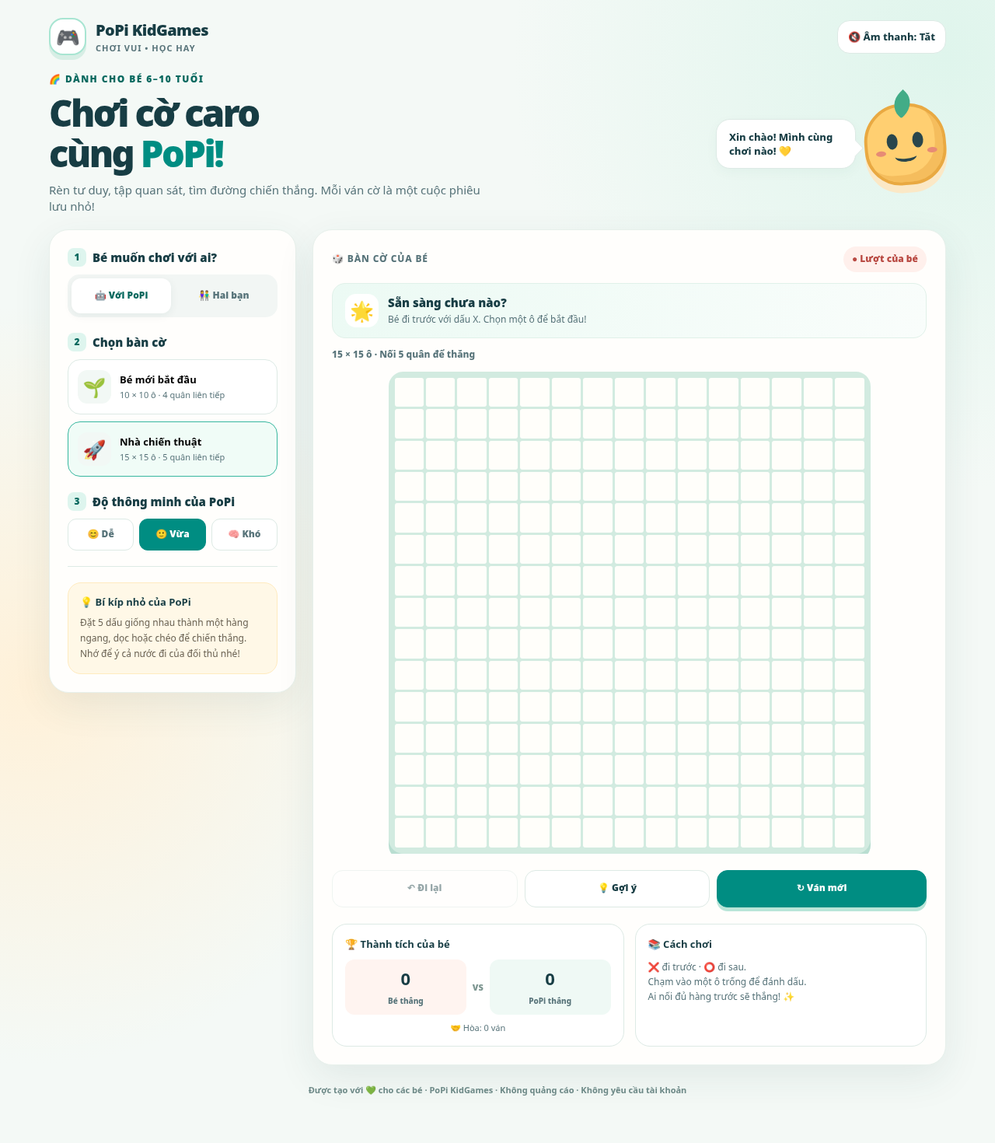
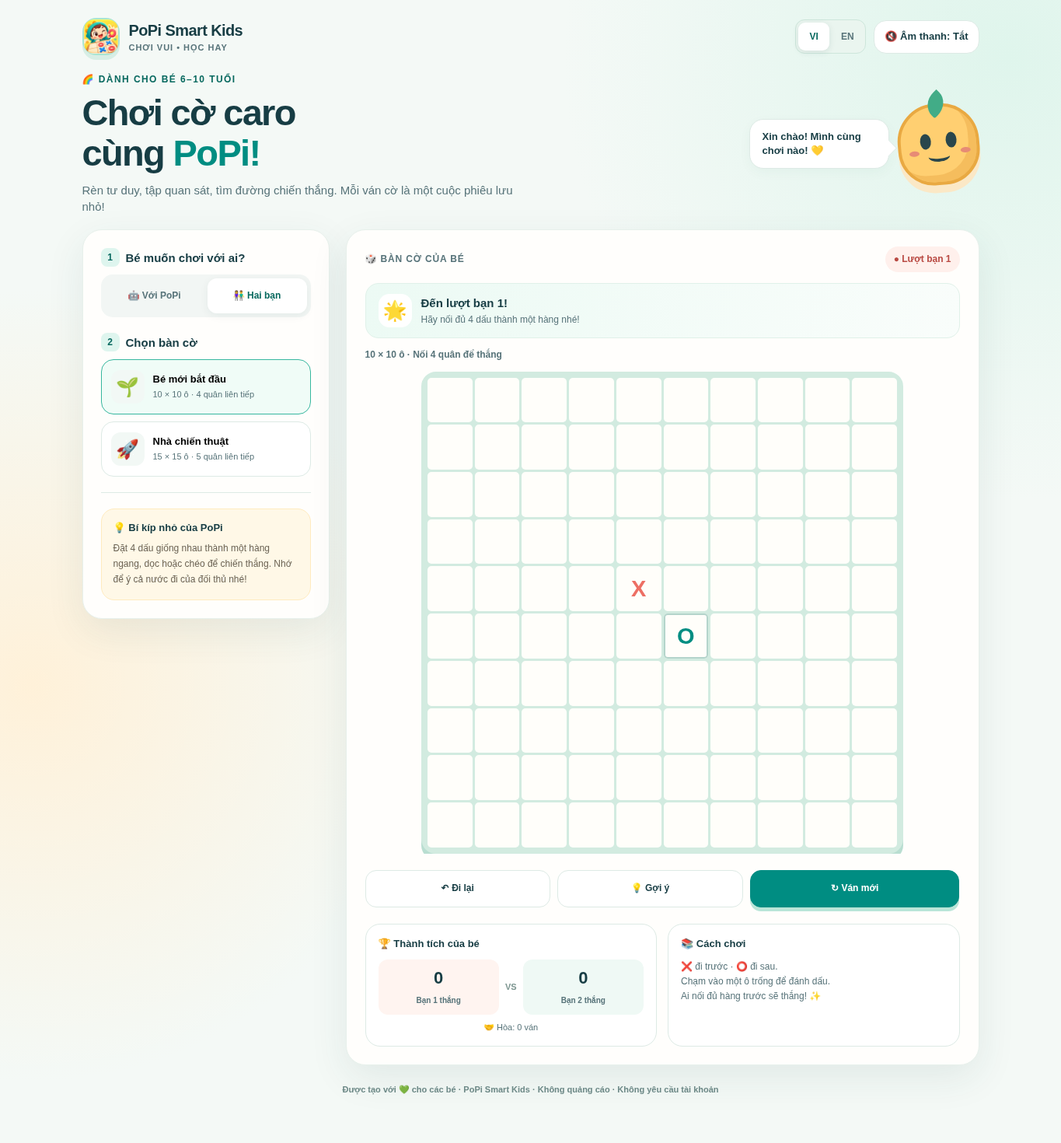
Add files via upload

diff --git a/index.html b/index.html
@@ -2,9 +2,10 @@
 <html lang="vi">
 <head>
   <meta charset="utf-8">
+  <meta name="application-name" content="PoPi Caro">
   <meta name="viewport" content="width=device-width, initial-scale=1, viewport-fit=cover">
   <meta name="theme-color" content="#f4f9f6">
-  <meta name="description" content="Chơi cờ caro cùng PoPi – trò chơi tư duy vui nhộn dành cho trẻ 6–10 tuổi, chơi với máy hoặc cùng bạn bè.">
+  <meta name="description" content="PoPi Caro – A fun, free, bilingual Caro strategy game for kids 6–10. Chơi cờ caro cùng PoPi Smart Kids.">
   <link rel="icon" href="favicon.ico" sizes="any">
   <link rel="icon" type="image/png" sizes="32x32" href="assets/icons/favicon-32x32.png">
   <link rel="icon" type="image/png" sizes="16x16" href="assets/icons/favicon-16x16.png">
@@ -18,8 +19,8 @@
   <style>
     :root { color-scheme: light; --ink:#173d44; --muted:#58747a; --paper:#fffefc; --bg:#f4f9f6; --jade:#008d82; --jade-dark:#08695f; --jade-soft:#def5ee; --coral:#ed6f64; --coral-soft:#fff0ec; --yellow:#ffd773; --line:#ddeae5; --shadow:0 16px 50px rgba(32,81,79,.09); --radius:25px; }
     *{box-sizing:border-box}
-    body{margin:0;background:radial-gradient(circle at 95% 5%,#dff5ec 0%,transparent 30%),radial-gradient(circle at 3% 60%,#fff1d9 0%,transparent 32%),var(--bg);font-family:ui-rounded,"Trebuchet MS",system-ui,-apple-system,"Segoe UI",sans-serif;color:var(--ink);line-height:1.4;min-height:100vh}
-    button{font:inherit;cursor:pointer;-webkit-tap-highlight-color:transparent}
+    body{margin:0;background:radial-gradient(circle at 95% 5%,#dff5ec 0%,transparent 30%),radial-gradient(circle at 3% 60%,#fff1d9 0%,transparent 32%),var(--bg);font-family:-apple-system,BlinkMacSystemFont,"Segoe UI",Arial,"Helvetica Neue",sans-serif;color:var(--ink);line-height:1.4;min-height:100vh}
+    button{font:inherit;cursor:pointer;-webkit-tap-highlight-color:transparent;-webkit-appearance:none;appearance:none} html{-webkit-text-size-adjust:100%;text-size-adjust:100%}
     button:focus-visible{outline:3px solid #235bc2;outline-offset:3px}
     button:disabled{opacity:.45;cursor:not-allowed}
     .container{max-width:1210px;margin:auto;padding:23px 28px 60px}
@@ -29,9 +30,15 @@
     .brand-mark img{width:100%;height:100%;object-fit:cover;border-radius:13px}
     .brand span small{font-size:11px;color:var(--muted);font-weight:700;display:block;letter-spacing:.09em;margin-top:1px}
     .icon-btn{border:1px solid var(--line);background:white;border-radius:16px;min-height:43px;padding:9px 13px;color:var(--ink);font-size:13px;font-weight:800}
+    .header-actions{display:flex;align-items:center;gap:10px;flex-wrap:wrap;justify-content:flex-end}
+    .language-switch{display:flex;gap:3px;padding:3px;background:#eaf5ef;border:1px solid #cde6db;border-radius:12px;flex-shrink:0}
+    .language-switch button{border:0;border-radius:9px;min-height:36px;min-width:40px;padding:7px 9px;background:transparent;color:var(--muted);font-size:12px;font-weight:900}
+    .language-switch button.active{background:#fff;color:var(--jade-dark);box-shadow:0 2px 8px #173d441a}
+    .brand{min-width:0}.brand>span{overflow-wrap:anywhere}.brand-mark{flex-shrink:0}
+    @media(max-width:570px){.topbar{align-items:flex-start;gap:8px}.header-actions{gap:5px}.header-actions .icon-btn{font-size:11px;min-height:35px}.language-switch button{min-width:34px;min-height:33px;padding:5px}}
     .hero{display:flex;align-items:center;justify-content:space-between;gap:20px;margin-bottom:19px}
     .eyebrow{color:var(--jade-dark);font-size:12px;font-weight:900;letter-spacing:.12em;text-transform:uppercase;margin:0 0 8px}
-    h1{font-size:clamp(29px,4.5vw,47px);line-height:1.12;letter-spacing:-.055em;margin:0 0 10px;font-weight:900}
+    h1{font-size:clamp(29px,4.5vw,47px);line-height:1.12;letter-spacing:-.035em;margin:0 0 10px;font-weight:900}
     h1 em{font-style:normal;color:var(--jade)}
     .hero p:last-child{color:var(--muted);margin:0;max-width:560px;font-size:15px}
     .mascot-unit{display:flex;gap:11px;align-items:center;flex-shrink:0}
@@ -79,12 +86,15 @@
     .zoom-tip{font-size:11px;color:var(--muted);margin:11px 0 0;text-align:center}
     .zoom-tip[hidden]{display:none}
     .board{width:min(100%,620px);margin-inline:auto;display:grid;grid-template-columns:repeat(var(--cells),minmax(0,1fr));background:#d2ebe0;border:5px solid #d2ebe0;border-radius:19px;gap:3px;padding:3px;aspect-ratio:1;box-shadow:0 8px 0 #b9ded1;touch-action:manipulation}
-    .cell{aspect-ratio:1;min-width:0;min-height:0;border:0;border-radius:7px;background:#fffefa;display:grid;place-items:center;padding:0;position:relative;transition:background .1s,transform .1s;font-family:ui-rounded,system-ui,sans-serif;font-size:clamp(12px,3.2vw,34px);font-weight:1000;line-height:1;color:var(--ink)}
+    .cell{aspect-ratio:1;min-width:0;min-height:0;border:0;border-radius:7px;background:#fffefa;display:grid;place-items:center;padding:0;position:relative;transition:background .1s,transform .1s;font-family:Arial,"Helvetica Neue",sans-serif;font-size:clamp(12px,3.2vw,34px);font-weight:900;line-height:1;color:var(--ink);-webkit-appearance:none;appearance:none;box-sizing:border-box;overflow:hidden}
+    /* Safari/iPadOS: absolutely center glyphs; native button content layout can be inconsistent. */
+    .cell .piece-mark{position:absolute;left:50%;top:50%;display:block;width:100%;line-height:1;text-align:center;transform:translate(-50%,-50%);pointer-events:none;font:inherit;font-weight:900;letter-spacing:0;white-space:nowrap;-webkit-user-select:none;user-select:none}
+    .cell.x .piece-mark{color:var(--coral)}.cell.o .piece-mark{color:var(--jade)}
     .board[data-size="10"] .cell{font-size:clamp(12px,2.4vw,29px);border-radius:5px}
     .board[data-size="15"] .cell{font-size:clamp(12px,2vw,25px);border-radius:3px}
     .board.zoomed{width:540px;min-width:540px;max-width:none;margin-inline:0}
     .board[data-size="15"] .cell.hint:empty:after{font-size:clamp(12px,2vw,18px)}
-    .cell:enabled:hover{background:#fff4cf;transform:scale(.96)}
+    @media(hover:hover){.cell:enabled:hover{background:#fff4cf;transform:scale(.98)}}
     .cell.x{color:var(--coral)}.cell.o{color:var(--jade)}
     .cell.winning{background:#fff0ad;box-shadow:inset 0 0 0 2px #f4c352}
     .cell.last:not(.winning){box-shadow:inset 0 0 0 2px #b4d4cb}
@@ -103,12 +113,20 @@
     .score-box strong{display:block;font-size:22px}.score-box small{font-size:10px;color:var(--muted);font-weight:800}
     .versus{color:#7d9691;font-size:11px;font-weight:900}
     .draw-text{text-align:center;color:var(--muted);font-size:11px;margin:9px 0 0}
-    .tiny-guide{font-size:12px;color:var(--muted);margin:0;line-height:1.6}
+    .tiny-guide{font-size:12px;color:var(--muted);margin:0;line-height:1.6;white-space:pre-line}
     .footer{margin-top:24px;text-align:center;font-size:11px;color:#6d8987;font-weight:700}
     .confetti{position:fixed;pointer-events:none;z-index:20;top:-30px;width:11px;height:18px;animation:confetti-fall var(--duration) linear forwards;left:var(--left);background:var(--color);transform:rotate(var(--rotate))}
     @keyframes confetti-fall{0%{translate:0 -30px;opacity:1}100%{translate:var(--drift) 110vh;rotate:700deg;opacity:0}}
     @media(max-width:960px){.layout{grid-template-columns:minmax(235px,290px) minmax(0,1fr)}.container{padding:20px 18px 44px}.settings-panel{padding:18px}.board-panel{padding:18px}.speech{display:none}.mascot{width:85px;height:85px}.mascot:before,.mascot:after{top:28px}.mascot .mouth{top:49px;left:25px}.mascot .blush{top:48px;box-shadow:50px 0 #e78b75}.mascot:after{right:17px}.mascot:before{left:17px}}
     @media(max-width:740px){.layout{grid-template-columns:minmax(0,1fr)}.hero{align-items:center}.hero p:last-child{font-size:13px}.mascot{width:71px;height:71px;border-width:3px;box-shadow:inset -6px -6px 0 #f5bd5d,0 6px 0 #fbe8c6}.mascot:before,.mascot:after{height:15px;width:10px;top:23px}.mascot:before{left:17px}.mascot:after{right:17px}.mascot .mouth{top:39px;left:24px;width:17px}.mascot .blush{top:39px;left:8px;width:9px;box-shadow:44px 0 #e78b75}.mascot .hair{left:19px;width:20px;height:18px;top:-13px}.settings-panel{display:grid;grid-template-columns:repeat(2,minmax(0,1fr));gap:15px}.settings-panel .settings-block:first-child{grid-column:1/-1}.settings-panel .aside-divider{display:none}.settings-panel .help-box{grid-column:1/-1}.choice-stack{gap:6px}.choice{min-height:60px;padding:8px}.choice-emoji{height:37px;width:37px;font-size:19px}.board{width:min(100%,620px)}}
+    /* On narrow screens, settings use the full available width for readable text. */
+    @media(max-width:570px){
+      .settings-panel{display:flex;flex-direction:column}
+      .choice-stack{grid-template-columns:repeat(2,minmax(0,1fr))}
+      .choice{width:100%;min-width:0}
+      .brand span small{font-size:10px;letter-spacing:.025em}
+      .board-head{flex-wrap:wrap}
+    }
     @media(min-width:741px){.zoom-button{display:none}}
     @media(max-width:450px){.container{padding:14px 10px 35px}.topbar{margin-bottom:19px}.brand{font-size:16px;gap:8px}.brand-mark{width:42px;height:42px}.icon-btn{padding:9px 7px;font-size:11px}.hero{margin-bottom:19px}.eyebrow{font-size:10px}h1{font-size:28px;max-width:270px}.hero p:last-child{font-size:12px}.mascot{width:64px;height:64px}.mascot:before,.mascot:after{top:20px}.mascot .mouth{top:36px;left:20px}.mascot .blush{top:36px;box-shadow:38px 0 #e78b75}.mascot:after{right:15px}.mascot:before{left:15px}.settings-panel{padding:13px;gap:12px}.section-name{font-size:13px}.section-name .number{width:20px;height:20px}.choice{gap:5px}.choice-emoji{display:none}.choice strong{font-size:11px}.choice small{font-size:10px}.difficulty{gap:3px}.difficulty button{font-size:11px;padding:8px 2px}.board-panel{padding:13px}.board{border-width:3px;gap:2px;padding:2px;border-radius:12px}.cell{border-radius:3px}.board-head{margin-bottom:10px}.status-card{padding:10px 11px;margin-bottom:14px}.status-icon{width:38px;height:38px}.action-row{gap:6px;margin-top:18px}.action{min-height:47px;padding:10px 3px;font-size:11px}.bottom-layout{gap:7px;margin-top:17px}.small-panel{padding:12px}.small-panel h3{font-size:12px}.tiny-guide{font-size:11px}.score-box strong{font-size:19px}}
     @media(prefers-reduced-motion:reduce){*,*:before,*:after{animation-duration:.01ms!important;transition-duration:.01ms!important}}
@@ -117,35 +135,41 @@
 <body>
   <div class="container">
     <header class="topbar">
-      <div class="brand"><div class="brand-mark" aria-hidden="true"><img src="assets/icons/icon-192.png" alt="" width="40" height="40"></div><span>PoPi KidGames<small>CHƠI VUI • HỌC HAY</small></span></div>
-      <button class="icon-btn" type="button" id="sound-button" aria-pressed="false">🔇 Âm thanh: Tắt</button>
[1 lines of base64/hex data omitted]
+      <div class="header-actions">
+        <div class="language-switch" role="group" data-i18n-aria="languagePicker" aria-label="Chọn ngôn ngữ">
+          <button type="button" data-lang="vi" class="active" aria-pressed="true" aria-label="Tiếng Việt">VI</button>
+          <button type="button" data-lang="en" aria-pressed="false" aria-label="English">EN</button>
+        </div>
+        <button class="icon-btn" type="button" id="sound-button" aria-pressed="false">🔇 Âm thanh: Tắt</button>
+      </div>
     </header>
     <section class="hero" aria-labelledby="page-title">
-      <div><p class="eyebrow">🌈 Dành cho bé 6–10 tuổi</p><h1 id="page-title">Chơi cờ caro<br>cùng <em>PoPi!</em></h1><p>Rèn tư duy, tập quan sát, tìm đường chiến thắng. Mỗi ván cờ là một cuộc phiêu lưu nhỏ!</p></div>
-      <div class="mascot-unit"><div class="speech" id="mascot-speech">Xin chào! Mình cùng chơi nào! 💛</div><div class="mascot" role="img" aria-label="Linh vật PoPi đang mỉm cười"><span class="mouth"></span><span class="blush"></span><span class="hair"></span></div></div>
+      <div><p class="eyebrow" data-i18n="eyebrow">🌈 Dành cho bé 6–10 tuổi</p><h1 id="page-title">Chơi cờ caro<br>cùng <em>PoPi!</em></h1><p data-i18n="intro">Rèn tư duy, tập quan sát, tìm đường chiến thắng. Mỗi ván cờ là một cuộc phiêu lưu nhỏ!</p></div>
+      <div class="mascot-unit"><div class="speech" id="mascot-speech">Xin chào! Mình cùng chơi nào! 💛</div><div class="mascot" role="img" data-i18n-aria="mascotAria" aria-label="Linh vật PoPi đang mỉm cười"><span class="mouth"></span><span class="blush"></span><span class="hair"></span></div></div>
     </section>
     <main class="layout">
-      <aside class="panel settings-panel" aria-label="Cài đặt trò chơi">
-        <section class="settings-block"><h2 class="section-name"><span class="number">1</span> Bé muốn chơi với ai?</h2><div class="toggle-row" role="group" aria-label="Chế độ chơi"><button type="button" data-mode="ai" class="active" aria-pressed="true">🤖 Với PoPi</button><button type="button" data-mode="friends" aria-pressed="false">👫 Hai bạn</button></div></section>
-        <section class="settings-block"><h2 class="section-name"><span class="number">2</span> Chọn bàn cờ</h2><div class="choice-stack"><button type="button" data-preset="starter" class="choice active" aria-pressed="true"><span class="choice-emoji">🌱</span><span><strong>Bé mới bắt đầu</strong><small>10 × 10 ô · 4 quân liên tiếp</small></span></button><button type="button" data-preset="explorer" class="choice" aria-pressed="false"><span class="choice-emoji">🚀</span><span><strong>Nhà chiến thuật</strong><small>15 × 15 ô · 5 quân liên tiếp</small></span></button></div></section>
-        <section class="settings-block" id="difficulty-section"><h2 class="section-name"><span class="number">3</span> Độ thông minh của PoPi</h2><div class="difficulty" role="group" aria-label="Độ khó"><button type="button" data-difficulty="easy" aria-pressed="false">😊 Dễ</button><button type="button" data-difficulty="normal" class="active" aria-pressed="true">🙂 Vừa</button><button type="button" data-difficulty="hard" aria-pressed="false">🧠 Khó</button></div></section>
+      <aside class="panel settings-panel" data-i18n-aria="settingsLabel" aria-label="Cài đặt trò chơi">
+        <section class="settings-block"><h2 class="section-name"><span class="number">1</span> <span data-i18n="playWith">Bé muốn chơi với ai?</span></h2><div class="toggle-row" role="group" data-i18n-aria="modeLabel" aria-label="Chế độ chơi"><button type="button" data-mode="ai" class="active" aria-pressed="true" data-i18n="withPopi">🤖 Với PoPi</button><button type="button" data-mode="friends" aria-pressed="false" data-i18n="twoPlayers">👫 Hai bạn</button></div></section>
+        <section class="settings-block"><h2 class="section-name"><span class="number">2</span> <span data-i18n="chooseBoard">Chọn bàn cờ</span></h2><div class="choice-stack"><button type="button" data-preset="starter" class="choice active" aria-pressed="true"><span class="choice-emoji">🌱</span><span><strong data-i18n="starter">Bé mới bắt đầu</strong><small data-i18n="starterSub">10 × 10 ô · 4 quân liên tiếp</small></span></button><button type="button" data-preset="explorer" class="choice" aria-pressed="false"><span class="choice-emoji">🚀</span><span><strong data-i18n="advanced">Nhà chiến thuật</strong><small data-i18n="advancedSub">15 × 15 ô · 5 quân liên tiếp</small></span></button></div></section>
+        <section class="settings-block" id="difficulty-section"><h2 class="section-name"><span class="number">3</span> <span data-i18n="difficultyTitle">Độ thông minh của PoPi</span></h2><div class="difficulty" role="group" data-i18n-aria="difficultyLabel" aria-label="Độ khó"><button type="button" data-difficulty="easy" aria-pressed="false" data-i18n="easy">😊 Dễ</button><button type="button" data-difficulty="normal" class="active" aria-pressed="true" data-i18n="normal">🙂 Vừa</button><button type="button" data-difficulty="hard" aria-pressed="false" data-i18n="hard">🧠 Khó</button></div></section>
         <div class="aside-divider"></div>
-        <section class="help-box"><strong>💡 Bí kíp nhỏ của PoPi</strong><p id="help-text">Đặt 4 dấu giống nhau thành một hàng ngang, dọc hoặc chéo để chiến thắng. Nhớ để ý cả nước đi của đối thủ nhé!</p></section>
+        <section class="help-box"><strong data-i18n="tipsTitle">💡 Bí kíp nhỏ của PoPi</strong><p id="help-text">Đặt 4 dấu giống nhau thành một hàng ngang, dọc hoặc chéo để chiến thắng. Nhớ để ý cả nước đi của đối thủ nhé!</p></section>
       </aside>
       <section class="panel board-panel" aria-labelledby="board-label">
-        <div class="board-head"><span class="mini-title" id="board-label">🎲 BÀN CỜ CỦA BÉ</span><span class="turn-pill is-coral" id="turn-pill">● Lượt của bé</span></div>
+        <div class="board-head"><span class="mini-title" id="board-label" data-i18n="boardTitle">🎲 BÀN CỜ CỦA BÉ</span><span class="turn-pill is-coral" id="turn-pill">● Lượt của bé</span></div>
         <div class="status-card" role="status" aria-live="polite" aria-atomic="true"><div class="status-icon" id="status-icon">🌟</div><div><p id="status-title">Sẵn sàng chưa nào?</p><p id="status-description">Bé đi trước với dấu X. Chọn một ô để bắt đầu!</p></div></div>
         <div class="board-tools"><span class="board-rule" id="board-rule">10 × 10 ô · Nối 4 quân để thắng</span><button class="zoom-button" id="zoom-button" type="button" hidden aria-pressed="false">🔎 Phóng to</button></div>
         <div class="board-shell" id="board-shell"><div class="board" id="board" role="group" aria-label="Bàn cờ caro 10 nhân 10" style="--cells:10" data-size="10"></div></div>
-        <p class="zoom-tip" id="zoom-tip" hidden>👆 Kéo bàn cờ để xem các ô khi phóng to.</p>
-        <div class="action-row"><button type="button" class="action" id="undo-button">↶ Đi lại</button><button type="button" class="action" id="hint-button">💡 Gợi ý</button><button type="button" class="action primary" id="new-button">↻ Ván mới</button></div>
+        <p class="zoom-tip" id="zoom-tip" hidden data-i18n="zoomTip">👆 Kéo bàn cờ để xem các ô khi phóng to.</p>
+        <div class="action-row"><button type="button" class="action" id="undo-button" data-i18n="undoBtn">↶ Đi lại</button><button type="button" class="action" id="hint-button" data-i18n="hintBtn">💡 Gợi ý</button><button type="button" class="action primary" id="new-button" data-i18n="newBtn">↻ Ván mới</button></div>
         <div class="bottom-layout">
-          <section class="small-panel"><h3>🏆 Thành tích của bé</h3><div class="score-pairs"><div class="score-box"><strong id="score-x">0</strong><small id="score-x-label">Bé thắng</small></div><span class="versus">VS</span><div class="score-box popi"><strong id="score-o">0</strong><small id="score-o-label">PoPi thắng</small></div></div><p class="draw-text" id="draw-text">🤝 Hòa: 0 ván</p></section>
-          <section class="small-panel"><h3>📚 Cách chơi</h3><p class="tiny-guide">❌ đi trước · ⭕ đi sau.<br>Chạm vào một ô trống để đánh dấu.<br>Ai nối đủ hàng trước sẽ thắng! ✨</p></section>
+          <section class="small-panel"><h3 data-i18n="scoreTitle">🏆 Thành tích của bé</h3><div class="score-pairs"><div class="score-box"><strong id="score-x">0</strong><small id="score-x-label">Bé thắng</small></div><span class="versus">VS</span><div class="score-box popi"><strong id="score-o">0</strong><small id="score-o-label">PoPi thắng</small></div></div><p class="draw-text" id="draw-text">🤝 Hòa: 0 ván</p></section>
+          <section class="small-panel"><h3 data-i18n="guideTitle">📚 Cách chơi</h3><p class="tiny-guide" id="tiny-guide">❌ đi trước · ⭕ đi sau.<br>Chạm vào một ô trống để đánh dấu.<br>Ai nối đủ hàng trước sẽ thắng! ✨</p></section>
         </div>
       </section>
     </main>
-    <footer class="footer">Được tạo với 💚 cho các bé · PoPi KidGames · Không quảng cáo · Không yêu cầu tài khoản</footer>
+    <footer class="footer" data-i18n="footer">Được tạo với 💚 cho các bé · PoPi Smart Kids · Không quảng cáo · Không yêu cầu tài khoản</footer>
   </div>
   <script>
   (() => {
@@ -163,8 +187,65 @@
       mode: savedSettings.mode === 'friends' ? 'friends' : 'ai',
       preset: PRESETS[savedSettings.preset] ? savedSettings.preset : 'starter',
       difficulty: ['easy','normal','hard'].includes(savedSettings.difficulty) ? savedSettings.difficulty : 'normal',
-      sound: savedSettings.sound === true
+      sound: savedSettings.sound === true,
+      language: savedSettings.language === 'en' ? 'en' : 'vi'
     };
+    const I18N = {
+      vi: {
+        title:'Chơi cờ caro cùng PoPi 🎮', tagline:'CHƠI VUI • HỌC HAY', eyebrow:'🌈 Dành cho bé 6–10 tuổi', intro:'Rèn tư duy, tập quan sát, tìm đường chiến thắng. Mỗi ván cờ là một cuộc phiêu lưu nhỏ!',
+        playWith:'Bé muốn chơi với ai?', chooseBoard:'Chọn bàn cờ', difficultyTitle:'Độ thông minh của PoPi', withPopi:'🤖 Với PoPi', twoPlayers:'👫 Hai bạn',
+        starter:'Bé mới bắt đầu', starterSub:'10 × 10 ô · 4 quân liên tiếp', advanced:'Nhà chiến thuật', advancedSub:'15 × 15 ô · 5 quân liên tiếp',
+        easy:'😊 Dễ', normal:'🙂 Vừa', hard:'🧠 Khó', tipsTitle:'💡 Bí kíp nhỏ của PoPi', boardTitle:'🎲 BÀN CỜ CỦA BÉ', zoomTip:'👆 Kéo bàn cờ để xem các ô khi phóng to.',
+        undoBtn:'↶ Đi lại', hintBtn:'💡 Gợi ý', newBtn:'↻ Ván mới', scoreTitle:'🏆 Thành tích của bé', guideTitle:'📚 Cách chơi',
+        footer:'Được tạo với 💚 cho các bé · PoPi Smart Kids · Không quảng cáo · Không yêu cầu tài khoản',
+        languagePicker:'Chọn ngôn ngữ',settingsLabel:'Cài đặt trò chơi',modeLabel:'Chế độ chơi',difficultyLabel:'Độ khó',mascotAria:'Linh vật PoPi đang mỉm cười',
+        soundOn:'🔊 Âm thanh: Bật',soundOff:'🔇 Âm thanh: Tắt',
+        help:(n)=>`Đặt ${n} dấu giống nhau thành một hàng ngang, dọc hoặc chéo để chiến thắng. Nhớ để ý cả nước đi của đối thủ nhé!`,
+        boardRule:(size,n)=>`${size} × ${size} ô · Nối ${n} quân để thắng`,boardAria:(size,n)=>`Bàn cờ caro ${size} nhân ${size}, nối ${n} để thắng`,
+        zoomIn:'🔎 Phóng to',zoomOut:'🔍 Thu nhỏ',cellAria:(r,c,piece,hint)=>`Hàng ${r}, cột ${c}${piece?', dấu '+piece:''}${hint?', gợi ý':''}`,
+        drawTitle:'Hai bên hòa nhau! 🤝',drawDesc:'Cả hai đã chơi rất tốt! Thử thêm một ván nhé.',
+        xWon:'Hoan hô! Bé chiến thắng! 🎉',p1Won:'Bạn 1 đã chiến thắng! 🎉',xDesc:'Quan sát thật giỏi! Bé có muốn thử ván tiếp theo?',
+        oWon:'PoPi thắng lượt này! 🌟',p2Won:'Bạn 2 đã chiến thắng! 🎉',oDesc:'Chơi lại và thử một chiến thuật khác nhé!',
+        aiTurn:'Đến lượt của PoPi 🤖',aiThinking:'PoPi đang chọn một ô thật khéo…',ready:'Sẵn sàng chưa nào?',yourTurn:'Đến lượt của bé!',p1Turn:'Đến lượt bạn 1!',p2Turn:'Đến lượt bạn 2!',
+        startDesc:'Bé đi trước với dấu X. Chọn một ô để bắt đầu!',nextDesc:(n)=>`Hãy nối đủ ${n} dấu thành một hàng nhé!`,
+        finished:'🏁 Đã kết thúc',pillYour:'● Lượt của bé',pillAi:'● Lượt PoPi',pillP1:'● Lượt bạn 1',pillP2:'● Lượt bạn 2',
+        drawCount:(n)=>`🤝 Hòa: ${n} ván`,scoreYour:'Bé thắng',scoreP1:'Bạn 1 thắng',scoreAi:'PoPi thắng',scoreP2:'Bạn 2 thắng',
+        speechWin:'Giỏi quá! 🎉',speechLose:'Chúng mình chơi lại nhé! 💛',speechHello:'Xin chào! Mình cùng chơi nào! 💛',hintToast:'Ô có ngôi sao ✦ là một nước đi đáng thử!',undoToast:'Bé đã quay lại nước đi trước!',
+        guide:'❌ đi trước · ⭕ đi sau.\nChạm vào một ô trống để đánh dấu.\nAi nối đủ hàng trước sẽ thắng! ✨'
+      },
+      en: {
+        title:'Play Caro with PoPi 🎮',tagline:'PLAY • LEARN • GROW',eyebrow:'🌈 For kids ages 6–10',intro:'Think ahead, spot patterns, and find your winning move. Every match is a new adventure!',
+        playWith:'Who would you like to play?',chooseBoard:'Choose a board',difficultyTitle:'How clever is PoPi?',withPopi:'🤖 Play PoPi',twoPlayers:'👫 Two players',
+        starter:'Little beginner',starterSub:'10 × 10 board · Connect 4',advanced:'Strategy star',advancedSub:'15 × 15 board · Connect 5',
+        easy:'😊 Easy',normal:'🙂 Medium',hard:'🧠 Hard',tipsTitle:'💡 PoPi’s little tip',boardTitle:'🎲 YOUR GAME BOARD',zoomTip:'👆 Drag the enlarged board to see more squares.',
+        undoBtn:'↶ Undo',hintBtn:'💡 Hint',newBtn:'↻ New game',scoreTitle:'🏆 Your scores',guideTitle:'📚 How to play',
+        footer:'Made with 💚 for kids · PoPi Smart Kids · No ads · No account needed',
+        languagePicker:'Choose language',settingsLabel:'Game settings',modeLabel:'Game mode',difficultyLabel:'Difficulty',mascotAria:'Smiling PoPi mascot',
+        soundOn:'🔊 Sound: On',soundOff:'🔇 Sound: Off',
+        help:(n)=>`Get ${n} matching marks in a horizontal, vertical, or diagonal row to win. Watch your opponent’s moves, too!`,
+        boardRule:(size,n)=>`${size} × ${size} squares · Connect ${n} to win`,boardAria:(size,n)=>`${size} by ${size} Caro board, connect ${n} to win`,
+        zoomIn:'🔎 Zoom in',zoomOut:'🔍 Zoom out',cellAria:(r,c,piece,hint)=>`Row ${r}, column ${c}${piece?', mark '+piece:''}${hint?', suggested move':''}`,
+        drawTitle:'It’s a draw! 🤝',drawDesc:'Great game, both of you! Want to play again?',
+        xWon:'Hooray! You win! 🎉',p1Won:'Player 1 wins! 🎉',xDesc:'Great thinking! Ready for another round?',
+        oWon:'PoPi wins this round! 🌟',p2Won:'Player 2 wins! 🎉',oDesc:'Try again with a new strategy!',
+        aiTurn:'PoPi’s turn 🤖',aiThinking:'PoPi is picking a clever square…',ready:'Ready to play?',yourTurn:'Your turn!',p1Turn:'Player 1’s turn!',p2Turn:'Player 2’s turn!',
+        startDesc:'You go first with X. Tap a square to begin!',nextDesc:(n)=>`Connect ${n} marks in a row to win!`,
+        finished:'🏁 Game over',pillYour:'● Your turn',pillAi:'● PoPi’s turn',pillP1:'● Player 1',pillP2:'● Player 2',
+        drawCount:(n)=>`🤝 Draws: ${n}`,scoreYour:'You win',scoreP1:'Player 1',scoreAi:'PoPi wins',scoreP2:'Player 2',
+        speechWin:'Great job! 🎉',speechLose:'Let’s try again! 💛',speechHello:'Hi! Let’s play! 💛',hintToast:'Try the square with the ✦ star!',undoToast:'Your last move was undone!',
+        guide:'❌ goes first · ⭕ goes next.\nTap an empty square to play.\nConnect a row to win! ✨'
+      }
+    };
+    const tr=(key,...args)=>{const val=I18N[settings.language][key];return typeof val==='function'?val(...args):val||key;};
+    function applyLanguage(){
+      document.documentElement.lang=settings.language;
+      document.title=tr('title');
+      $('page-title').innerHTML=settings.language==='vi'?'Chơi cờ caro<br>cùng <em>PoPi!</em>':'Play Caro<br>with <em>PoPi!</em>';
+      document.querySelectorAll('[data-i18n]').forEach(el=>{el.textContent=tr(el.dataset.i18n);});
+      document.querySelectorAll('[data-i18n-aria]').forEach(el=>{el.setAttribute('aria-label',tr(el.dataset.i18nAria));});
+      $('tiny-guide').textContent=tr('guide');
+      document.querySelectorAll('[data-lang]').forEach(btn=>{const active=btn.dataset.lang===settings.language;btn.classList.toggle('active',active);btn.setAttribute('aria-pressed',String(active));});
+    }
     const emptyStats = () => ({ai:{X:0,O:0,draw:0},friends:{X:0,O:0,draw:0}});
     let stats = safeGet(STATS_KEY) || emptyStats();
     for (const mode of ['ai','friends']) {
@@ -334,7 +415,7 @@
       const won=moves.find(i=>{game.cells[i]=piece;const w=getWin(game.cells,i,piece);game.cells[i]=null;return w;});
       const block=moves.find(i=>{game.cells[i]=opp;const w=getWin(game.cells,i,opp);game.cells[i]=null;return w;});
       hintAt=won??block??moves.sort((a,b)=>(scoreAt(game.cells,b,piece)+scoreAt(game.cells,b,opp)*1.25)-(scoreAt(game.cells,a,piece)+scoreAt(game.cells,a,opp)*1.25))[0];
-      infoOverride='Ô có ngôi sao ✦ là một nước đi đáng thử!';sound('hint');render();
+      infoOverride='hintToast';sound('hint');render();
     }
     function undo() {
       stopAi();
@@ -347,7 +428,7 @@
         game.cells[at]=null;
       }
       game.current=game.history.length%2===0?'X':'O';
-      game.winner=null;game.winning=[];game.recorded=false;hintAt=-1;infoOverride='Bé đã quay lại nước đi trước!';
+      game.winner=null;game.winning=[];game.recorded=false;hintAt=-1;infoOverride='undoToast';
       persist();render();
       if(settings.mode==='ai' && game.current==='O') scheduleAi();
     }
@@ -359,23 +440,24 @@
       newGame();
     }
     function render() {
+      applyLanguage();
       const rule=getRule();
       for(const btn of document.querySelectorAll('[data-mode]')){const active=btn.dataset.mode===settings.mode;btn.classList.toggle('active',active);btn.setAttribute('aria-pressed',String(active));}
       for(const btn of document.querySelectorAll('[data-preset]')){const active=btn.dataset.preset===settings.preset;btn.classList.toggle('active',active);btn.setAttribute('aria-pressed',String(active));}
       for(const btn of document.querySelectorAll('[data-difficulty]')){const active=btn.dataset.difficulty===settings.difficulty;btn.classList.toggle('active',active);btn.setAttribute('aria-pressed',String(active));}
       $('difficulty-section').hidden=settings.mode==='friends';
-      $('sound-button').textContent=settings.sound?'🔊 Âm thanh: Bật':'🔇 Âm thanh: Tắt';
+      $('sound-button').textContent=tr(settings.sound?'soundOn':'soundOff');
       $('sound-button').setAttribute('aria-pressed',String(settings.sound));
-      $('help-text').textContent=`Đặt ${rule.target} dấu giống nhau thành một hàng ngang, dọc hoặc chéo để chiến thắng. Nhớ để ý cả nước đi của đối thủ nhé!`;
+      $('help-text').textContent=tr('help',rule.target);
       const board=$('board');board.style.setProperty('--cells',String(rule.size));board.dataset.size=String(rule.size);
       board.classList.toggle('zoomed',boardZoomed && rule.size===15);
       $('board-shell').classList.toggle('zoomed',boardZoomed && rule.size===15);
-      $('board-rule').textContent=`${rule.size} × ${rule.size} ô · Nối ${rule.target} quân để thắng`;
+      $('board-rule').textContent=tr('boardRule',rule.size,rule.target);
       $('zoom-button').hidden=rule.size!==15;
-      $('zoom-button').textContent=boardZoomed?'🔍 Thu nhỏ':'🔎 Phóng to';
+      $('zoom-button').textContent=tr(boardZoomed?'zoomOut':'zoomIn');
       $('zoom-button').setAttribute('aria-pressed',String(boardZoomed));
       $('zoom-tip').hidden=!(boardZoomed && rule.size===15);
-      board.setAttribute('aria-label',`Bàn cờ caro ${rule.size} nhân ${rule.size}, nối ${rule.target} để thắng`);
+      board.setAttribute('aria-label',tr('boardAria',rule.size,rule.target));
       const fragment=document.createDocumentFragment(),last=game.history.at(-1),winSet=new Set(game.winning);
       game.cells.forEach((piece,i)=>{
         const cell=document.createElement('button');cell.type='button';cell.className='cell';
@@ -383,9 +465,9 @@
         if(i===last)cell.classList.add('last');
         if(winSet.has(i))cell.classList.add('winning');
         if(hintAt===i)cell.classList.add('hint');
-        cell.textContent=piece||'';
+        if(piece){const mark=document.createElement('span');mark.className='piece-mark';mark.textContent=piece;mark.setAttribute('aria-hidden','true');cell.appendChild(mark);}
         const r=Math.floor(i/rule.size)+1,c=i%rule.size+1;
-        cell.setAttribute('aria-label',`Hàng ${r}, cột ${c}${piece?', dấu '+piece:''}${hintAt===i?', gợi ý':''}`);
+        cell.setAttribute('aria-label',tr('cellAria',r,c,piece,hintAt===i));
         cell.disabled=Boolean(piece)||Boolean(game.winner)||pendingAi!==null||(settings.mode==='ai'&&game.current==='O');
         cell.addEventListener('click',()=>humanPlay(i));fragment.appendChild(cell);
       });
@@ -394,20 +476,22 @@
       $('hint-button').disabled=Boolean(game.winner)||pendingAi!==null||(settings.mode==='ai'&&game.current==='O');
       const isHumanTurn=game.current==='X',winner=game.winner;
       let title,description,icon;
-      if(winner==='draw'){title='Hai bên hòa nhau! 🤝';description='Cả hai đã chơi rất tốt! Thử thêm một ván nhé.';icon='🌈';}
-      else if(winner==='X'){title=settings.mode==='ai'?'Hoan hô! Bé chiến thắng! 🎉':'Bạn 1 đã chiến thắng! 🎉';description='Quan sát thật giỏi! Bé có muốn thử ván tiếp theo?';icon='🏆';}
-      else if(winner==='O'){title=settings.mode==='ai'?'PoPi thắng lượt này! 🌟':'Bạn 2 đã chiến thắng! 🎉';description='Chơi lại và thử một chiến thuật khác nhé!';icon=settings.mode==='ai'?'🤖':'🏆';}
-      else if(pendingAi!==null){title='Đến lượt của PoPi 🤖';description='PoPi đang chọn một ô thật khéo…';icon='🤔';}
-      else {title=isHumanTurn?(game.history.length===0?'Sẵn sàng chưa nào?':'Đến lượt của bé!'):settings.mode==='ai'?'Đến lượt PoPi!':'Đến lượt bạn 2!';
-        if(settings.mode==='friends'&&isHumanTurn&&game.history.length>0)title='Đến lượt bạn 1!';
-        description=infoOverride||(game.history.length===0?'Bé đi trước với dấu X. Chọn một ô để bắt đầu!':`Hãy nối đủ ${rule.target} dấu thành một hàng nhé!`);icon=isHumanTurn?'🌟':settings.mode==='ai'?'🤖':'🌻';}
+      if(winner==='draw'){title=tr('drawTitle');description=tr('drawDesc');icon='🌈';}
+      else if(winner==='X'){title=tr(settings.mode==='ai'?'xWon':'p1Won');description=tr('xDesc');icon='🏆';}
+      else if(winner==='O'){title=tr(settings.mode==='ai'?'oWon':'p2Won');description=tr('oDesc');icon=settings.mode==='ai'?'🤖':'🏆';}
+      else if(pendingAi!==null){title=tr('aiTurn');description=tr('aiThinking');icon='🤔';}
+      else {
+        title=game.history.length===0?tr('ready'):tr(settings.mode==='friends'?(isHumanTurn?'p1Turn':'p2Turn'):(isHumanTurn?'yourTurn':'aiTurn'));
+        description=infoOverride?tr(infoOverride):(game.history.length===0?tr('startDesc'):tr('nextDesc',rule.target));
+        icon=isHumanTurn?'🌟':settings.mode==='ai'?'🤖':'🌻';
+      }
       $('status-title').textContent=title;$('status-description').textContent=description;$('status-icon').textContent=icon;
-      $('turn-pill').textContent=winner?'🏁 Đã kết thúc':settings.mode==='ai'?(isHumanTurn?'● Lượt của bé':'● Lượt PoPi'):(isHumanTurn?'● Lượt bạn 1':'● Lượt bạn 2');
+      $('turn-pill').textContent=winner?tr('finished'):settings.mode==='ai'?tr(isHumanTurn?'pillYour':'pillAi'):tr(isHumanTurn?'pillP1':'pillP2');
       $('turn-pill').classList.toggle('is-coral',isHumanTurn&&!winner);
-      $('score-x').textContent=stats[settings.mode].X;$('score-o').textContent=stats[settings.mode].O;$('draw-text').textContent=`🤝 Hòa: ${stats[settings.mode].draw} ván`;
-      $('score-x-label').textContent=settings.mode==='ai'?'Bé thắng':'Bạn 1 thắng';
-      $('score-o-label').textContent=settings.mode==='ai'?'PoPi thắng':'Bạn 2 thắng';
-      $('mascot-speech').textContent=winner==='X'?'Giỏi quá! 🎉':winner==='O'?'Chúng mình chơi lại nhé! 💛':'Xin chào! Mình cùng chơi nào! 💛';
+      $('score-x').textContent=stats[settings.mode].X;$('score-o').textContent=stats[settings.mode].O;$('draw-text').textContent=tr('drawCount',stats[settings.mode].draw);
+      $('score-x-label').textContent=tr(settings.mode==='ai'?'scoreYour':'scoreP1');
+      $('score-o-label').textContent=tr(settings.mode==='ai'?'scoreAi':'scoreP2');
+      $('mascot-speech').textContent=tr(winner==='X'?'speechWin':winner==='O'?'speechLose':'speechHello');
     }
     function sound(type) {
       if(!settings.sound) return;
@@ -436,6 +520,7 @@
     document.querySelectorAll('[data-mode]').forEach(b=>b.addEventListener('click',()=>changeSetting('mode',b.dataset.mode)));
     document.querySelectorAll('[data-preset]').forEach(b=>b.addEventListener('click',()=>changeSetting('preset',b.dataset.preset)));
     document.querySelectorAll('[data-difficulty]').forEach(b=>b.addEventListener('click',()=>changeSetting('difficulty',b.dataset.difficulty)));
+    document.querySelectorAll('[data-lang]').forEach(b=>b.addEventListener('click',()=>{if(settings.language===b.dataset.lang)return;settings.language=b.dataset.lang;safeSet(SETTINGS_KEY,settings);render();}));
     $('sound-button').addEventListener('click',()=>{settings.sound=!settings.sound;safeSet(SETTINGS_KEY,settings);render();sound('hint');});
     $('zoom-button').addEventListener('click',()=>{
       boardZoomed=!boardZoomed;

diff --git a/README.md b/README.md
@@ -1,6 +1,14 @@
-# 🎮 Chơi cờ caro cùng PoPi — V1.2
+# 🎮 Chơi cờ caro cùng PoPi — V1.3
 
-Web game cờ caro miễn phí, dành cho trẻ từ **6–10 tuổi**, chạy trên trình duyệt máy tính, điện thoại và iPad. Là một trò chơi thuộc hệ sinh thái **PoPiKidGames**.
+Web game cờ caro miễn phí, dành cho trẻ từ **6–10 tuổi**, chạy trên trình duyệt máy tính, điện thoại và iPad. Là một trò chơi thuộc hệ sinh thái **PoPi Smart Kids**.
+
+## ✅ Cập nhật V1.3
+
+- Sửa lỗi Safari/iPadOS làm quân **X/O lệch tâm** bằng lớp ký hiệu định vị tuyệt đối chính giữa ô, không phụ thuộc cách iPad render nút HTML.
+- Thêm chuyển đổi **Tiếng Việt (VI) / English (EN)** cho toàn bộ giao diện, thông báo kết quả, hướng dẫn và nhãn hỗ trợ tiếp cận; ghi nhớ ngôn ngữ trên trình duyệt.
+- Logo ở header được nhúng trực tiếp để không hiện biểu tượng ảnh bị lỗi khi thư mục `assets` thiếu hoặc CDN chậm. Các tệp icon độc lập vẫn nằm trong `assets/icons/`.
+- Thương hiệu **PoPi Smart Kids**, font dùng hệ thống phổ biến, tránh lỗi dấu tiếng Việt.
+- Giữ nguyên AI, luật chơi, nút điều khiển và thành tích đã lưu từ V1.2.
 
 ## 🎯 Tính năng
 
@@ -67,3 +75,12 @@ Sau đó truy cập `http://localhost:8000`.
 ## 🎨 Logo
 
 Logo gồm nhân vật PoPi vui nhộn, bàn cờ và các quân X/O. File gốc ở `assets/icons/popi-caro-icon-master.png`. Các biến thể favicon, Apple và Android/web được xuất sẵn. Xem `LOGO_CONCEPT.md` để biết định hướng nhận diện.
+
+## ♻ Cập nhật repository đang chạy
+
+1. Giải nén ZIP. Trên GitHub chọn **Add file → Upload files** hoặc dùng Git để thay toàn bộ file cũ; quan trọng nhất là `index.html`, `manifest.webmanifest`, `favicon.ico` và **toàn bộ thư mục `assets/icons/`**.
+2. Nếu thấy logo cũ, kiểm tra thư mục `assets/icons` có đúng tên chữ thường và các ảnh PNG thực sự có mặt trên nhánh `main`.
+3. Chờ GitHub Pages hoàn tất triển khai và tải lại trang bằng **Ctrl+Shift+R** hoặc đóng mở lại Safari. Với shortcut iPad, đôi khi cần xóa shortcut cũ và **Add to Home Screen** lại để icon mới có hiệu lực.
+4. Không đổi địa chỉ repo hoặc đường dẫn trang, dữ liệu tiến trình và điểm số được giữ trên cùng trình duyệt nếu localStorage chưa bị xóa.
+
+**Kiểm thử:** Bản này được kiểm tra bằng Chromium mô phỏng kích thước iPad và desktop; vẫn nên thử thực tế trên Safari iPadOS của anh vì đây là lỗi phụ thuộc thiết bị.
